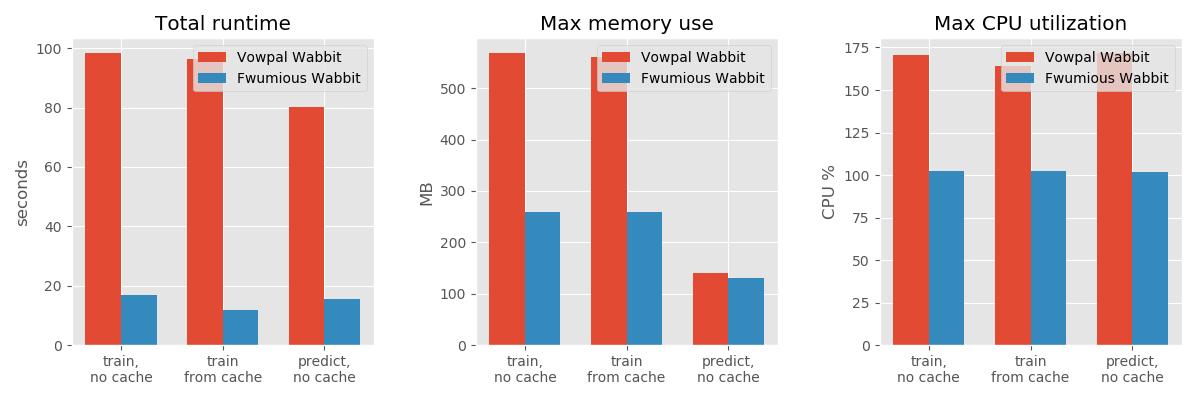
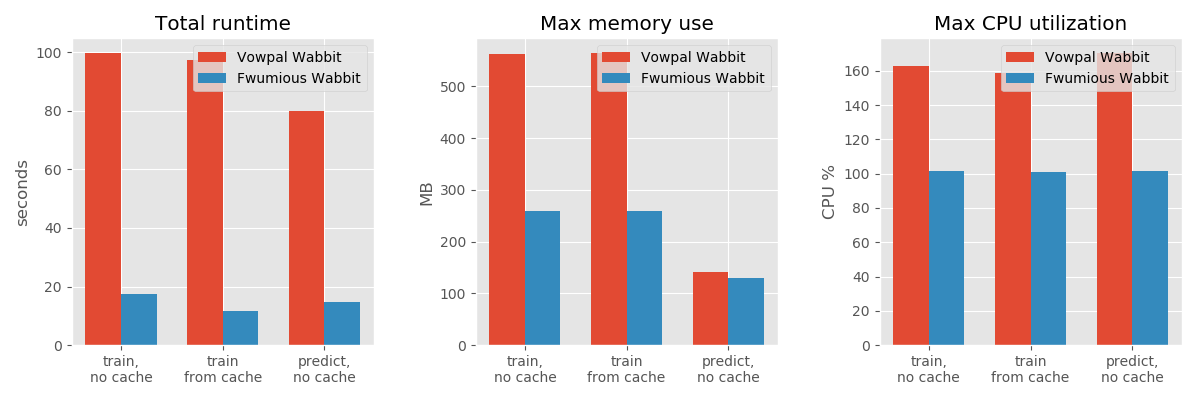
bumping version & benchmark info

diff --git a/src/version.rs b/src/version.rs
@@ -1,1 +1,1 @@
-pub static LATEST: &str = "0.4";
+pub static LATEST: &str = "0.5";

diff --git a/BENCHMARK.md b/BENCHMARK.md
@@ -14,12 +14,12 @@ here are the results for 3 runs for each scenario, taking mean values:
 ![benchmark results](benchmark_results.png)
 Scenario|Runtime (seconds)|Memory (MB)|CPU %
 ----|----:|----:|----:
-vw train, no cache|98.42 | 568 | 170.40
-fw train, no cache|17.02 | 258 | 102.13
-vw train, using cache|96.35 | 561 | 164.30
-fw train, using cache|11.75 | 258 | 102.43
-vw predict, no cache|80.09 | 141 | 171.80
-fw predict, no cache|15.66 | 130 | 101.93
+vw train, no cache|99.77 | 563 | 162.83
+fw train, no cache|17.60 | 258 | 101.43
+vw train, using cache|97.34 | 565 | 158.90
+fw train, using cache|11.69 | 258 | 100.80
+vw predict, no cache|79.96 | 141 | 170.43
+fw predict, no cache|14.57 | 130 | 101.43
 
 ### Model equivalence
 loss values for the test set:
@@ -82,7 +82,7 @@ or, if you just want the numbers with less dependencies run:
 ### versions:
 ```
 vowpal wabbit 8.9.2 (git commit: 884420267)
-fwumious wabbit 0.4 (git commit: faee24a)
+fwumious wabbit 0.5 (git commit: eaf67d3)
 ```
 
 ### CPU Info
